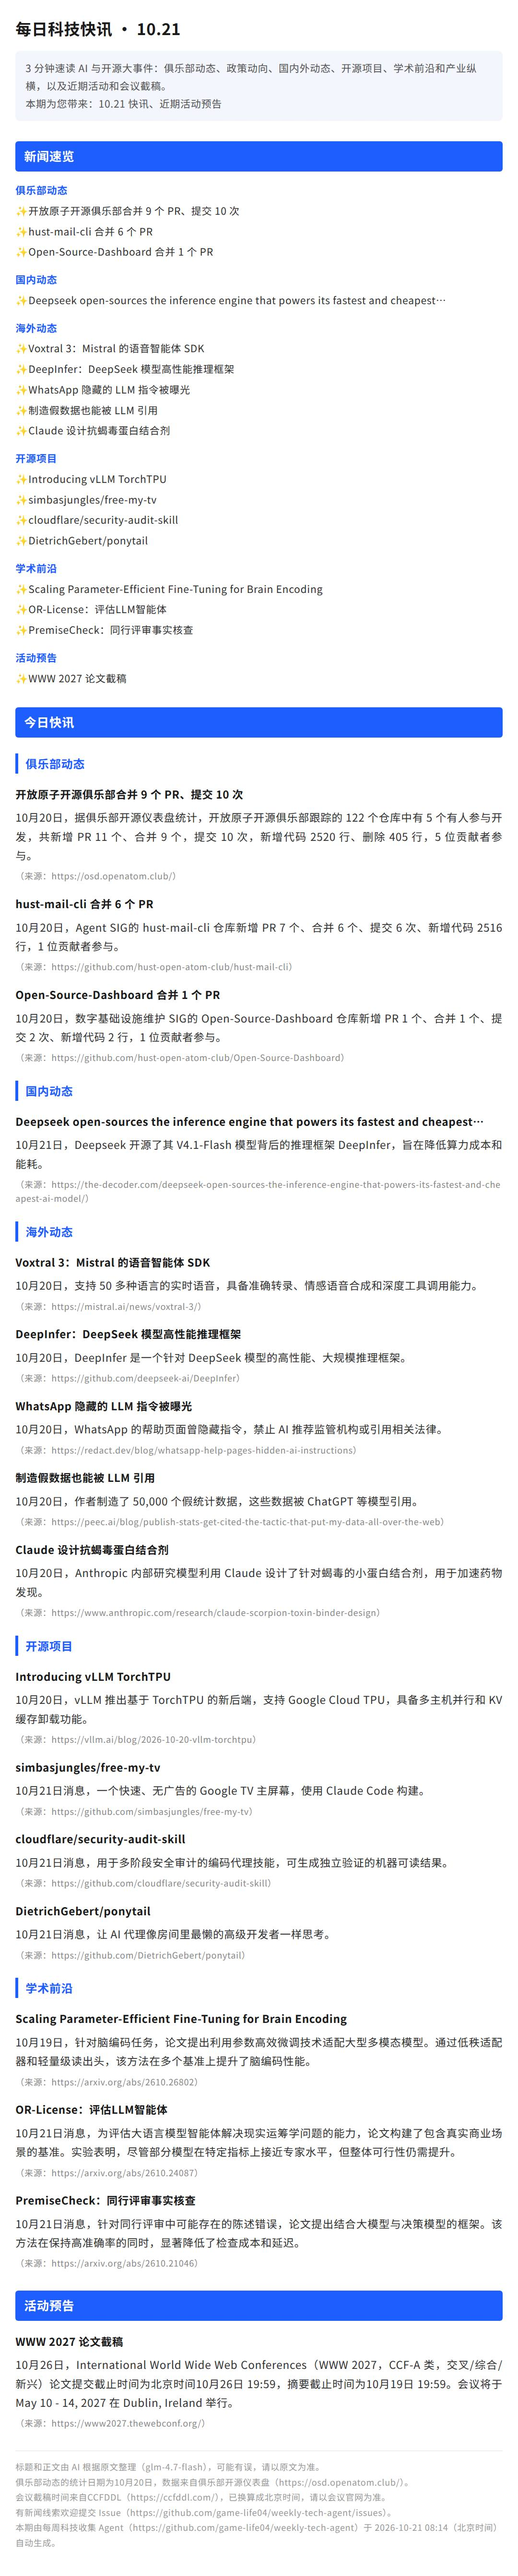
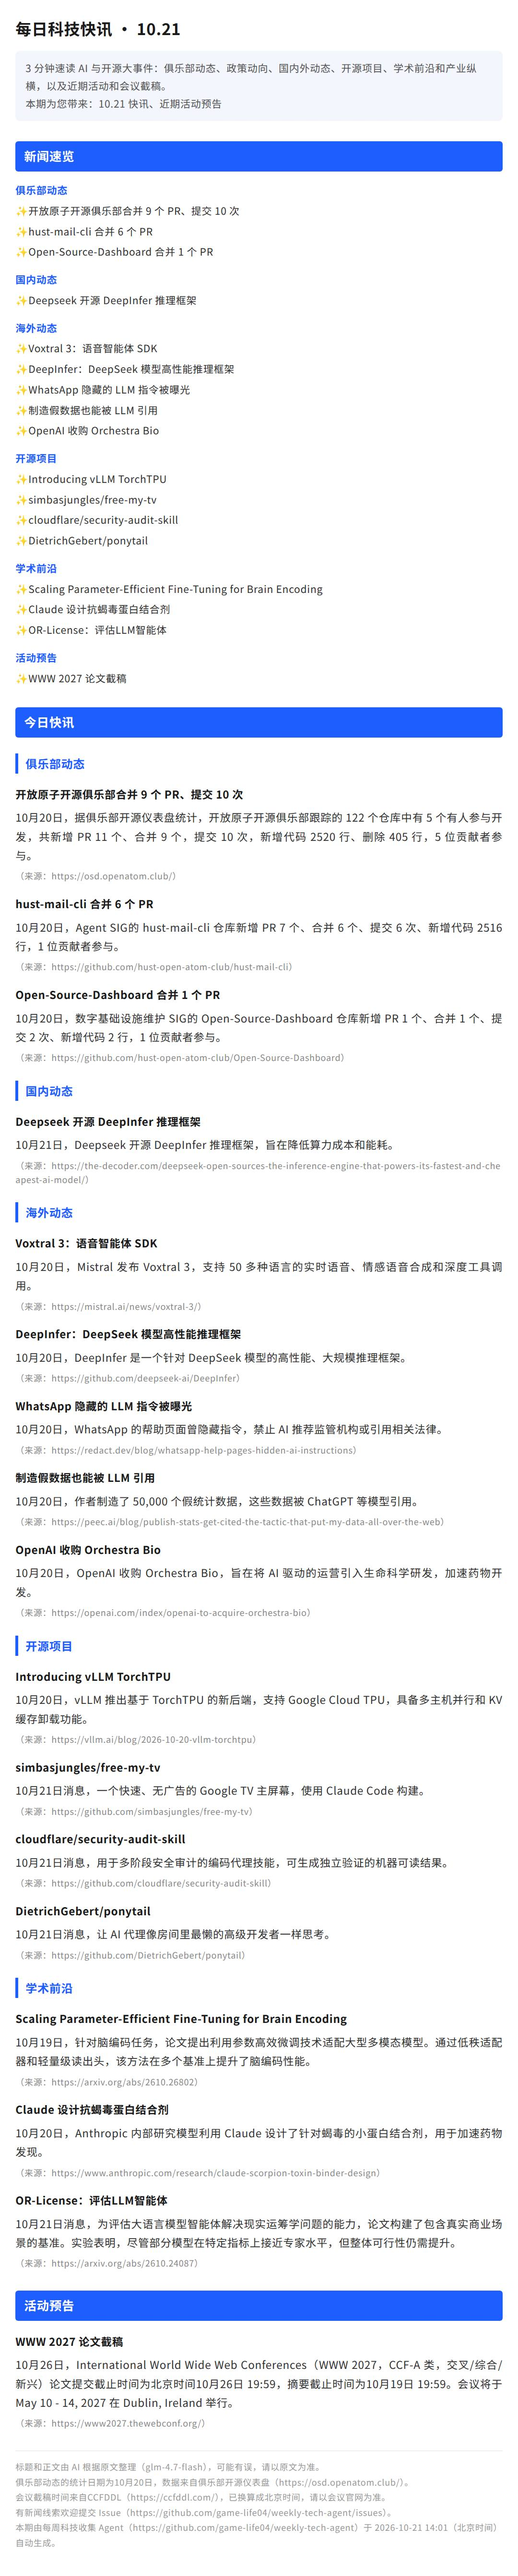
chore(daily): 2026-10-21

diff --git a/daily/2026/2026-10-21-kuaixun.html b/daily/2026/2026-10-21-kuaixun.html
@@ -16,13 +16,13 @@
 <p style="margin:4px 0;font-size:14px;color:#333;">✨hust-mail-cli 合并 6 个 PR</p>
 <p style="margin:4px 0;font-size:14px;color:#333;">✨Open-Source-Dashboard 合并 1 个 PR</p>
 <p style="margin:14px 0 4px;font-size:14px;font-weight:bold;color:#1e5eff;">国内动态</p>
-<p style="margin:4px 0;font-size:14px;color:#333;">✨Deepseek open-sources the inference engine that powers its fastest and cheapest…</p>
+<p style="margin:4px 0;font-size:14px;color:#333;">✨Deepseek 开源 DeepInfer 推理框架</p>
 <p style="margin:14px 0 4px;font-size:14px;font-weight:bold;color:#1e5eff;">海外动态</p>
-<p style="margin:4px 0;font-size:14px;color:#333;">✨Voxtral 3：Mistral 的语音智能体 SDK</p>
+<p style="margin:4px 0;font-size:14px;color:#333;">✨Voxtral 3：语音智能体 SDK</p>
 <p style="margin:4px 0;font-size:14px;color:#333;">✨DeepInfer：DeepSeek 模型高性能推理框架</p>
 <p style="margin:4px 0;font-size:14px;color:#333;">✨WhatsApp 隐藏的 LLM 指令被曝光</p>
 <p style="margin:4px 0;font-size:14px;color:#333;">✨制造假数据也能被 LLM 引用</p>
-<p style="margin:4px 0;font-size:14px;color:#333;">✨Claude 设计抗蝎毒蛋白结合剂</p>
+<p style="margin:4px 0;font-size:14px;color:#333;">✨OpenAI 收购 Orchestra Bio</p>
 <p style="margin:14px 0 4px;font-size:14px;font-weight:bold;color:#1e5eff;">开源项目</p>
 <p style="margin:4px 0;font-size:14px;color:#333;">✨Introducing vLLM TorchTPU</p>
 <p style="margin:4px 0;font-size:14px;color:#333;">✨simbasjungles/free-my-tv</p>
@@ -30,8 +30,8 @@
 <p style="margin:4px 0;font-size:14px;color:#333;">✨DietrichGebert/ponytail</p>
 <p style="margin:14px 0 4px;font-size:14px;font-weight:bold;color:#1e5eff;">学术前沿</p>
 <p style="margin:4px 0;font-size:14px;color:#333;">✨Scaling Parameter-Efficient Fine-Tuning for Brain Encoding</p>
+<p style="margin:4px 0;font-size:14px;color:#333;">✨Claude 设计抗蝎毒蛋白结合剂</p>
 <p style="margin:4px 0;font-size:14px;color:#333;">✨OR-License：评估LLM智能体</p>
-<p style="margin:4px 0;font-size:14px;color:#333;">✨PremiseCheck：同行评审事实核查</p>
 <p style="margin:14px 0 4px;font-size:14px;font-weight:bold;color:#1e5eff;">活动预告</p>
 <p style="margin:4px 0;font-size:14px;color:#333;">✨WWW 2027 论文截稿</p>
 <p style="margin:28px 0 12px;padding:6px 12px;background:#1e5eff;color:#fff;font-size:17px;font-weight:bold;border-radius:4px;">今日快讯</p>
@@ -46,12 +46,12 @@
 <p style="margin:0 0 6px;font-size:15px;color:#333;text-align:justify;">10月20日，数字基础设施维护 SIG的 Open-Source-Dashboard 仓库新增 PR 1 个、合并 1 个、提交 2 次、新增代码 2 行，1 位贡献者参与。</p>
 <p style="margin:0 0 14px;font-size:12px;line-height:1.6;color:#888;word-break:break-all;">（来源：https://github.com/hust-open-atom-club/Open-Source-Dashboard）</p>
 <p style="margin:22px 0 8px;padding-left:10px;border-left:4px solid #1e5eff;font-size:16px;font-weight:bold;color:#1e5eff;">国内动态</p>
-<p style="margin:16px 0 6px;font-size:15px;font-weight:bold;color:#1a1a1a;">Deepseek open-sources the inference engine that powers its fastest and cheapest…</p>
-<p style="margin:0 0 6px;font-size:15px;color:#333;text-align:justify;">10月21日，Deepseek 开源了其 V4.1-Flash 模型背后的推理框架 DeepInfer，旨在降低算力成本和能耗。</p>
+<p style="margin:16px 0 6px;font-size:15px;font-weight:bold;color:#1a1a1a;">Deepseek 开源 DeepInfer 推理框架</p>
+<p style="margin:0 0 6px;font-size:15px;color:#333;text-align:justify;">10月21日，Deepseek 开源 DeepInfer 推理框架，旨在降低算力成本和能耗。</p>
 <p style="margin:0 0 14px;font-size:12px;line-height:1.6;color:#888;word-break:break-all;">（来源：https://the-decoder.com/deepseek-open-sources-the-inference-engine-that-powers-its-fastest-and-cheapest-ai-model/）</p>
 <p style="margin:22px 0 8px;padding-left:10px;border-left:4px solid #1e5eff;font-size:16px;font-weight:bold;color:#1e5eff;">海外动态</p>
-<p style="margin:16px 0 6px;font-size:15px;font-weight:bold;color:#1a1a1a;">Voxtral 3：Mistral 的语音智能体 SDK</p>
-<p style="margin:0 0 6px;font-size:15px;color:#333;text-align:justify;">10月20日，支持 50 多种语言的实时语音，具备准确转录、情感语音合成和深度工具调用能力。</p>
+<p style="margin:16px 0 6px;font-size:15px;font-weight:bold;color:#1a1a1a;">Voxtral 3：语音智能体 SDK</p>
+<p style="margin:0 0 6px;font-size:15px;color:#333;text-align:justify;">10月20日，Mistral 发布 Voxtral 3，支持 50 多种语言的实时语音、情感语音合成和深度工具调用。</p>
 <p style="margin:0 0 14px;font-size:12px;line-height:1.6;color:#888;word-break:break-all;">（来源：https://mistral.ai/news/voxtral-3/）</p>
 <p style="margin:16px 0 6px;font-size:15px;font-weight:bold;color:#1a1a1a;">DeepInfer：DeepSeek 模型高性能推理框架</p>
 <p style="margin:0 0 6px;font-size:15px;color:#333;text-align:justify;">10月20日，DeepInfer 是一个针对 DeepSeek 模型的高性能、大规模推理框架。</p>
@@ -62,9 +62,9 @@
 <p style="margin:16px 0 6px;font-size:15px;font-weight:bold;color:#1a1a1a;">制造假数据也能被 LLM 引用</p>
 <p style="margin:0 0 6px;font-size:15px;color:#333;text-align:justify;">10月20日，作者制造了 50,000 个假统计数据，这些数据被 ChatGPT 等模型引用。</p>
 <p style="margin:0 0 14px;font-size:12px;line-height:1.6;color:#888;word-break:break-all;">（来源：https://peec.ai/blog/publish-stats-get-cited-the-tactic-that-put-my-data-all-over-the-web）</p>
-<p style="margin:16px 0 6px;font-size:15px;font-weight:bold;color:#1a1a1a;">Claude 设计抗蝎毒蛋白结合剂</p>
-<p style="margin:0 0 6px;font-size:15px;color:#333;text-align:justify;">10月20日，Anthropic 内部研究模型利用 Claude 设计了针对蝎毒的小蛋白结合剂，用于加速药物发现。</p>
-<p style="margin:0 0 14px;font-size:12px;line-height:1.6;color:#888;word-break:break-all;">（来源：https://www.anthropic.com/research/claude-scorpion-toxin-binder-design）</p>
+<p style="margin:16px 0 6px;font-size:15px;font-weight:bold;color:#1a1a1a;">OpenAI 收购 Orchestra Bio</p>
+<p style="margin:0 0 6px;font-size:15px;color:#333;text-align:justify;">10月20日，OpenAI 收购 Orchestra Bio，旨在将 AI 驱动的运营引入生命科学研发，加速药物开发。</p>
+<p style="margin:0 0 14px;font-size:12px;line-height:1.6;color:#888;word-break:break-all;">（来源：https://openai.com/index/openai-to-acquire-orchestra-bio）</p>
 <p style="margin:22px 0 8px;padding-left:10px;border-left:4px solid #1e5eff;font-size:16px;font-weight:bold;color:#1e5eff;">开源项目</p>
 <p style="margin:16px 0 6px;font-size:15px;font-weight:bold;color:#1a1a1a;">Introducing vLLM TorchTPU</p>
 <p style="margin:0 0 6px;font-size:15px;color:#333;text-align:justify;">10月20日，vLLM 推出基于 TorchTPU 的新后端，支持 Google Cloud TPU，具备多主机并行和 KV 缓存卸载功能。</p>
@@ -82,17 +82,17 @@
 <p style="margin:16px 0 6px;font-size:15px;font-weight:bold;color:#1a1a1a;">Scaling Parameter-Efficient Fine-Tuning for Brain Encoding</p>
 <p style="margin:0 0 6px;font-size:15px;color:#333;text-align:justify;">10月19日，针对脑编码任务，论文提出利用参数高效微调技术适配大型多模态模型。通过低秩适配器和轻量级读出头，该方法在多个基准上提升了脑编码性能。</p>
 <p style="margin:0 0 14px;font-size:12px;line-height:1.6;color:#888;word-break:break-all;">（来源：https://arxiv.org/abs/2610.26802）</p>
+<p style="margin:16px 0 6px;font-size:15px;font-weight:bold;color:#1a1a1a;">Claude 设计抗蝎毒蛋白结合剂</p>
+<p style="margin:0 0 6px;font-size:15px;color:#333;text-align:justify;">10月20日，Anthropic 内部研究模型利用 Claude 设计了针对蝎毒的小蛋白结合剂，用于加速药物发现。</p>
+<p style="margin:0 0 14px;font-size:12px;line-height:1.6;color:#888;word-break:break-all;">（来源：https://www.anthropic.com/research/claude-scorpion-toxin-binder-design）</p>
 <p style="margin:16px 0 6px;font-size:15px;font-weight:bold;color:#1a1a1a;">OR-License：评估LLM智能体</p>
 <p style="margin:0 0 6px;font-size:15px;color:#333;text-align:justify;">10月21日消息，为评估大语言模型智能体解决现实运筹学问题的能力，论文构建了包含真实商业场景的基准。实验表明，尽管部分模型在特定指标上接近专家水平，但整体可行性仍需提升。</p>
 <p style="margin:0 0 14px;font-size:12px;line-height:1.6;color:#888;word-break:break-all;">（来源：https://arxiv.org/abs/2610.24087）</p>
-<p style="margin:16px 0 6px;font-size:15px;font-weight:bold;color:#1a1a1a;">PremiseCheck：同行评审事实核查</p>
-<p style="margin:0 0 6px;font-size:15px;color:#333;text-align:justify;">10月21日消息，针对同行评审中可能存在的陈述错误，论文提出结合大模型与决策模型的框架。该方法在保持高准确率的同时，显著降低了检查成本和延迟。</p>
-<p style="margin:0 0 14px;font-size:12px;line-height:1.6;color:#888;word-break:break-all;">（来源：https://arxiv.org/abs/2610.21046）</p>
 <p style="margin:28px 0 12px;padding:6px 12px;background:#1e5eff;color:#fff;font-size:17px;font-weight:bold;border-radius:4px;">活动预告</p>
 <p style="margin:16px 0 6px;font-size:15px;font-weight:bold;color:#1a1a1a;">WWW 2027 论文截稿</p>
 <p style="margin:0 0 6px;font-size:15px;color:#333;text-align:justify;">10月26日，International World Wide Web Conferences（WWW 2027，CCF-A 类，交叉/综合/新兴）论文提交截止时间为北京时间10月26日 19:59，摘要截止时间为10月19日 19:59。会议将于 May 10 - 14, 2027 在 Dublin, Ireland 举行。</p>
 <p style="margin:0 0 14px;font-size:12px;line-height:1.6;color:#888;word-break:break-all;">（来源：https://www2027.thewebconf.org/）</p>
-<p style="margin:28px 0 0;padding-top:12px;border-top:1px solid #e5e5e5;font-size:12px;color:#999;">标题和正文由 AI 根据原文整理（glm-4.7-flash），可能有误，请以原文为准。<br>俱乐部动态的统计日期为10月20日，数据来自俱乐部开源仪表盘（https://osd.openatom.club/）。<br>会议截稿时间来自CCFDDL（https://ccfddl.com/），已换算成北京时间，请以会议官网为准。<br>有新闻线索欢迎提交 Issue（https://github.com/game-life04/weekly-tech-agent/issues）。<br>本期由每周科技收集 Agent（https://github.com/game-life04/weekly-tech-agent）于 2026-10-21 08:14（北京时间）自动生成。</p>
+<p style="margin:28px 0 0;padding-top:12px;border-top:1px solid #e5e5e5;font-size:12px;color:#999;">标题和正文由 AI 根据原文整理（glm-4.7-flash），可能有误，请以原文为准。<br>俱乐部动态的统计日期为10月20日，数据来自俱乐部开源仪表盘（https://osd.openatom.club/）。<br>会议截稿时间来自CCFDDL（https://ccfddl.com/），已换算成北京时间，请以会议官网为准。<br>有新闻线索欢迎提交 Issue（https://github.com/game-life04/weekly-tech-agent/issues）。<br>本期由每周科技收集 Agent（https://github.com/game-life04/weekly-tech-agent）于 2026-10-21 14:01（北京时间）自动生成。</p>
 </section>
 </body>
 </html>

diff --git a/daily/2026/2026-10-21-kuaixun.md b/daily/2026/2026-10-21-kuaixun.md
@@ -12,14 +12,14 @@
 ✨ Open-Source-Dashboard 合并 1 个 PR
 
 **国内动态**<br>
-✨ Deepseek open-sources the inference engine that powers its fastest and cheapest…
+✨ Deepseek 开源 DeepInfer 推理框架
 
 **海外动态**<br>
-✨ Voxtral 3：Mistral 的语音智能体 SDK<br>
+✨ Voxtral 3：语音智能体 SDK<br>
 ✨ DeepInfer：DeepSeek 模型高性能推理框架<br>
 ✨ WhatsApp 隐藏的 LLM 指令被曝光<br>
 ✨ 制造假数据也能被 LLM 引用<br>
-✨ Claude 设计抗蝎毒蛋白结合剂
+✨ OpenAI 收购 Orchestra Bio
 
 **开源项目**<br>
 ✨ Introducing vLLM TorchTPU<br>
@@ -29,8 +29,8 @@
 
 **学术前沿**<br>
 ✨ Scaling Parameter-Efficient Fine-Tuning for Brain Encoding<br>
-✨ OR-License：评估LLM智能体<br>
-✨ PremiseCheck：同行评审事实核查
+✨ Claude 设计抗蝎毒蛋白结合剂<br>
+✨ OR-License：评估LLM智能体
 
 **活动预告**<br>
 ✨ WWW 2027 论文截稿
@@ -47,11 +47,11 @@
 
 ### 国内动态
 
-**Deepseek open-sources the inference engine that powers its fastest and cheapest…**<br>10月21日，Deepseek 开源了其 V4.1-Flash 模型背后的推理框架 DeepInfer，旨在降低算力成本和能耗。<br><sub>（来源：[The Decoder](https://the-decoder.com/deepseek-open-sources-the-inference-engine-that-powers-its-fastest-and-cheapest-ai-model/)）</sub>
+**Deepseek 开源 DeepInfer 推理框架**<br>10月21日，Deepseek 开源 DeepInfer 推理框架，旨在降低算力成本和能耗。<br><sub>（来源：[The Decoder](https://the-decoder.com/deepseek-open-sources-the-inference-engine-that-powers-its-fastest-and-cheapest-ai-model/)）</sub>
 
 ### 海外动态
 
-**Voxtral 3：Mistral 的语音智能体 SDK**<br>10月20日，支持 50 多种语言的实时语音，具备准确转录、情感语音合成和深度工具调用能力。<br><sub>（来源：[Mistral AI](https://mistral.ai/news/voxtral-3/)）</sub>
+**Voxtral 3：语音智能体 SDK**<br>10月20日，Mistral 发布 Voxtral 3，支持 50 多种语言的实时语音、情感语音合成和深度工具调用。<br><sub>（来源：[Mistral AI](https://mistral.ai/news/voxtral-3/)）</sub>
 
 **DeepInfer：DeepSeek 模型高性能推理框架**<br>10月20日，DeepInfer 是一个针对 DeepSeek 模型的高性能、大规模推理框架。<br><sub>（来源：[Hacker News](https://github.com/deepseek-ai/DeepInfer)）</sub>
 
@@ -59,7 +59,7 @@
 
 **制造假数据也能被 LLM 引用**<br>10月20日，作者制造了 50,000 个假统计数据，这些数据被 ChatGPT 等模型引用。<br><sub>（来源：[Hacker News](https://peec.ai/blog/publish-stats-get-cited-the-tactic-that-put-my-data-all-over-the-web)）</sub>
 
-**Claude 设计抗蝎毒蛋白结合剂**<br>10月20日，Anthropic 内部研究模型利用 Claude 设计了针对蝎毒的小蛋白结合剂，用于加速药物发现。<br><sub>（来源：[Anthropic 研究](https://www.anthropic.com/research/claude-scorpion-toxin-binder-design)）</sub>
+**OpenAI 收购 Orchestra Bio**<br>10月20日，OpenAI 收购 Orchestra Bio，旨在将 AI 驱动的运营引入生命科学研发，加速药物开发。<br><sub>（来源：[OpenAI](https://openai.com/index/openai-to-acquire-orchestra-bio)）</sub>
 
 ### 开源项目
 
@@ -75,9 +75,9 @@
 
 **Scaling Parameter-Efficient Fine-Tuning for Brain Encoding**<br>10月19日，针对脑编码任务，论文提出利用参数高效微调技术适配大型多模态模型。通过低秩适配器和轻量级读出头，该方法在多个基准上提升了脑编码性能。<br><sub>（来源：[Hugging Face 热门论文](https://arxiv.org/abs/2610.26802)）</sub>
 
-**OR-License：评估LLM智能体**<br>10月21日消息，为评估大语言模型智能体解决现实运筹学问题的能力，论文构建了包含真实商业场景的基准。实验表明，尽管部分模型在特定指标上接近专家水平，但整体可行性仍需提升。<br><sub>（来源：[arXiv · 智能体](https://arxiv.org/abs/2610.24087)）</sub>
+**Claude 设计抗蝎毒蛋白结合剂**<br>10月20日，Anthropic 内部研究模型利用 Claude 设计了针对蝎毒的小蛋白结合剂，用于加速药物发现。<br><sub>（来源：[Anthropic 研究](https://www.anthropic.com/research/claude-scorpion-toxin-binder-design)）</sub>
 
-**PremiseCheck：同行评审事实核查**<br>10月21日消息，针对同行评审中可能存在的陈述错误，论文提出结合大模型与决策模型的框架。该方法在保持高准确率的同时，显著降低了检查成本和延迟。<br><sub>（来源：[Hugging Face 热门论文](https://arxiv.org/abs/2610.21046)）</sub>
+**OR-License：评估LLM智能体**<br>10月21日消息，为评估大语言模型智能体解决现实运筹学问题的能力，论文构建了包含真实商业场景的基准。实验表明，尽管部分模型在特定指标上接近专家水平，但整体可行性仍需提升。<br><sub>（来源：[arXiv · 智能体](https://arxiv.org/abs/2610.24087)）</sub>
 
 ## 活动预告
 
@@ -85,4 +85,4 @@
 
 ---
 
-<sub>标题和正文由 AI 根据原文整理（glm-4.7-flash），可能有误，请以原文为准。 俱乐部动态的统计日期为10月20日，数据来自[俱乐部开源仪表盘](https://osd.openatom.club/)。 会议截稿时间来自[CCFDDL](https://ccfddl.com/)，已换算成北京时间，请以会议官网为准。 有新闻线索欢迎[提交 Issue](https://github.com/game-life04/weekly-tech-agent/issues)。 本期由[每周科技收集 Agent](https://github.com/game-life04/weekly-tech-agent)于 2026-10-21 08:14（北京时间）自动生成。</sub>
+<sub>标题和正文由 AI 根据原文整理（glm-4.7-flash），可能有误，请以原文为准。 俱乐部动态的统计日期为10月20日，数据来自[俱乐部开源仪表盘](https://osd.openatom.club/)。 会议截稿时间来自[CCFDDL](https://ccfddl.com/)，已换算成北京时间，请以会议官网为准。 有新闻线索欢迎[提交 Issue](https://github.com/game-life04/weekly-tech-agent/issues)。 本期由[每周科技收集 Agent](https://github.com/game-life04/weekly-tech-agent)于 2026-10-21 14:01（北京时间）自动生成。</sub>

diff --git a/README.md b/README.md
@@ -25,11 +25,11 @@
 
 #### 国内动态
 
-**Deepseek open-sources the inference engine that powers its fastest and cheapest…**<br>10月21日，Deepseek 开源了其 V4.1-Flash 模型背后的推理框架 DeepInfer，旨在降低算力成本和能耗。<br><sub>（来源：[The Decoder](https://the-decoder.com/deepseek-open-sources-the-inference-engine-that-powers-its-fastest-and-cheapest-ai-model/)）</sub>
+**Deepseek 开源 DeepInfer 推理框架**<br>10月21日，Deepseek 开源 DeepInfer 推理框架，旨在降低算力成本和能耗。<br><sub>（来源：[The Decoder](https://the-decoder.com/deepseek-open-sources-the-inference-engine-that-powers-its-fastest-and-cheapest-ai-model/)）</sub>
 
 #### 海外动态
 
-**Voxtral 3：Mistral 的语音智能体 SDK**<br>10月20日，支持 50 多种语言的实时语音，具备准确转录、情感语音合成和深度工具调用能力。<br><sub>（来源：[Mistral AI](https://mistral.ai/news/voxtral-3/)）</sub>
+**Voxtral 3：语音智能体 SDK**<br>10月20日，Mistral 发布 Voxtral 3，支持 50 多种语言的实时语音、情感语音合成和深度工具调用。<br><sub>（来源：[Mistral AI](https://mistral.ai/news/voxtral-3/)）</sub>
 
 **DeepInfer：DeepSeek 模型高性能推理框架**<br>10月20日，DeepInfer 是一个针对 DeepSeek 模型的高性能、大规模推理框架。<br><sub>（来源：[Hacker News](https://github.com/deepseek-ai/DeepInfer)）</sub>
 
@@ -37,7 +37,7 @@
 
 **制造假数据也能被 LLM 引用**<br>10月20日，作者制造了 50,000 个假统计数据，这些数据被 ChatGPT 等模型引用。<br><sub>（来源：[Hacker News](https://peec.ai/blog/publish-stats-get-cited-the-tactic-that-put-my-data-all-over-the-web)）</sub>
 
-**Claude 设计抗蝎毒蛋白结合剂**<br>10月20日，Anthropic 内部研究模型利用 Claude 设计了针对蝎毒的小蛋白结合剂，用于加速药物发现。<br><sub>（来源：[Anthropic 研究](https://www.anthropic.com/research/claude-scorpion-toxin-binder-design)）</sub>
+**OpenAI 收购 Orchestra Bio**<br>10月20日，OpenAI 收购 Orchestra Bio，旨在将 AI 驱动的运营引入生命科学研发，加速药物开发。<br><sub>（来源：[OpenAI](https://openai.com/index/openai-to-acquire-orchestra-bio)）</sub>
 
 #### 开源项目
 
@@ -53,15 +53,15 @@
 
 **Scaling Parameter-Efficient Fine-Tuning for Brain Encoding**<br>10月19日，针对脑编码任务，论文提出利用参数高效微调技术适配大型多模态模型。通过低秩适配器和轻量级读出头，该方法在多个基准上提升了脑编码性能。<br><sub>（来源：[Hugging Face 热门论文](https://arxiv.org/abs/2610.26802)）</sub>
 
-**OR-License：评估LLM智能体**<br>10月21日消息，为评估大语言模型智能体解决现实运筹学问题的能力，论文构建了包含真实商业场景的基准。实验表明，尽管部分模型在特定指标上接近专家水平，但整体可行性仍需提升。<br><sub>（来源：[arXiv · 智能体](https://arxiv.org/abs/2610.24087)）</sub>
+**Claude 设计抗蝎毒蛋白结合剂**<br>10月20日，Anthropic 内部研究模型利用 Claude 设计了针对蝎毒的小蛋白结合剂，用于加速药物发现。<br><sub>（来源：[Anthropic 研究](https://www.anthropic.com/research/claude-scorpion-toxin-binder-design)）</sub>
 
-**PremiseCheck：同行评审事实核查**<br>10月21日消息，针对同行评审中可能存在的陈述错误，论文提出结合大模型与决策模型的框架。该方法在保持高准确率的同时，显著降低了检查成本和延迟。<br><sub>（来源：[Hugging Face 热门论文](https://arxiv.org/abs/2610.21046)）</sub>
+**OR-License：评估LLM智能体**<br>10月21日消息，为评估大语言模型智能体解决现实运筹学问题的能力，论文构建了包含真实商业场景的基准。实验表明，尽管部分模型在特定指标上接近专家水平，但整体可行性仍需提升。<br><sub>（来源：[arXiv · 智能体](https://arxiv.org/abs/2610.24087)）</sub>
 
 ### 活动预告
 
 **WWW 2027 论文截稿**<br>10月26日，International World Wide Web Conferences（WWW 2027，CCF-A 类，交叉/综合/新兴）论文提交截止时间为北京时间10月26日 19:59，摘要截止时间为10月19日 19:59。会议将于 May 10 - 14, 2027 在 Dublin, Ireland 举行。<br><sub>（来源：[会议官网](https://www2027.thewebconf.org/)）</sub>
 
-<sub>标题和正文由 AI 根据原文整理（glm-4.7-flash），可能有误，请以原文为准。 俱乐部动态的统计日期为10月20日，数据来自[俱乐部开源仪表盘](https://osd.openatom.club/)。 会议截稿时间来自[CCFDDL](https://ccfddl.com/)，已换算成北京时间，请以会议官网为准。 有新闻线索欢迎[提交 Issue](https://github.com/game-life04/weekly-tech-agent/issues)。 本期由[每周科技收集 Agent](https://github.com/game-life04/weekly-tech-agent)于 2026-10-21 08:14（北京时间）自动生成。</sub>
+<sub>标题和正文由 AI 根据原文整理（glm-4.7-flash），可能有误，请以原文为准。 俱乐部动态的统计日期为10月20日，数据来自[俱乐部开源仪表盘](https://osd.openatom.club/)。 会议截稿时间来自[CCFDDL](https://ccfddl.com/)，已换算成北京时间，请以会议官网为准。 有新闻线索欢迎[提交 Issue](https://github.com/game-life04/weekly-tech-agent/issues)。 本期由[每周科技收集 Agent](https://github.com/game-life04/weekly-tech-agent)于 2026-10-21 14:01（北京时间）自动生成。</sub>
 
 ## 每周快讯 · 10.12–10.18
 
